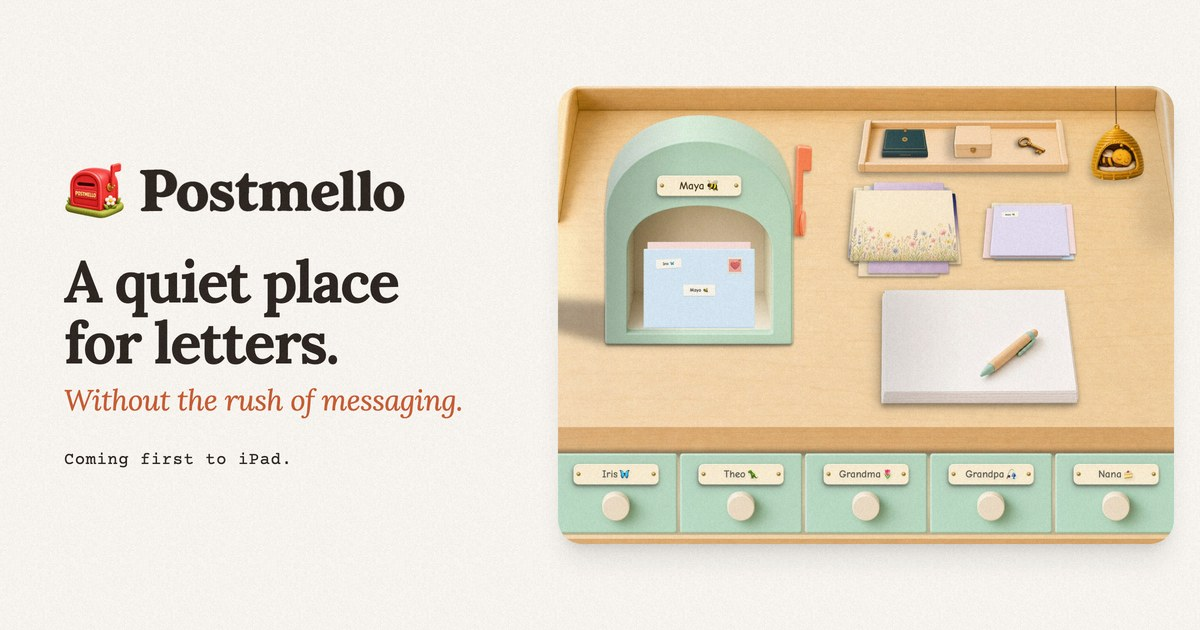
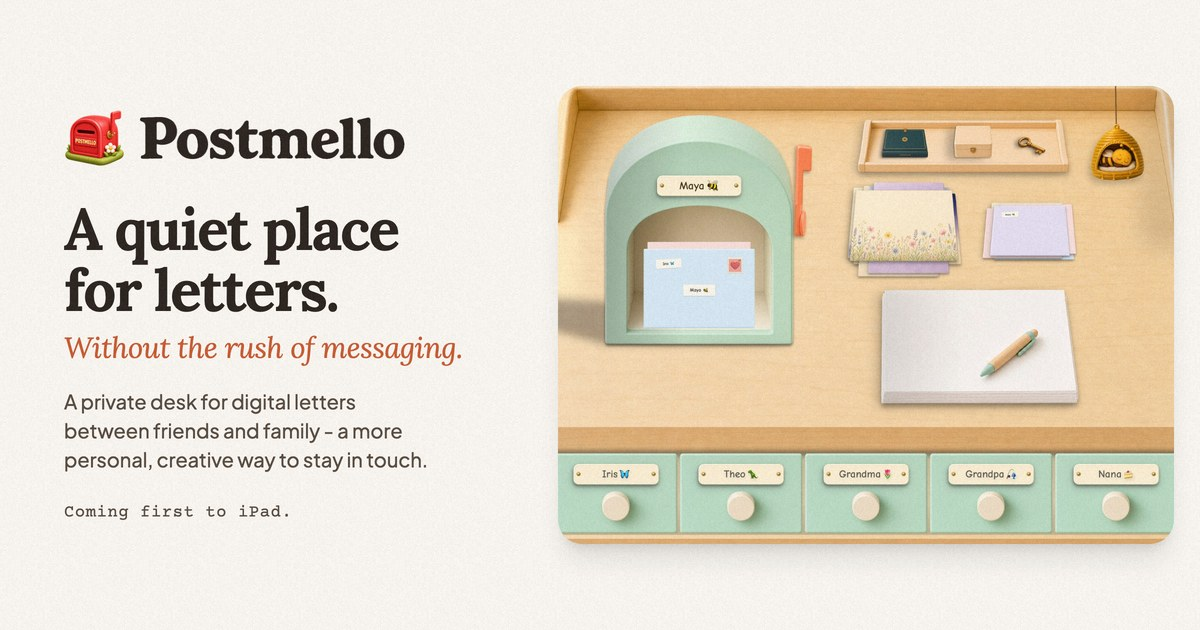
The share card carries the whole proposition, and its badge gets the ink it documents
The card was the hero minus its point: headline, aside, footnote, and nothing
that said what Postmello IS. That was survivable while the missing line was a
three-sentence paragraph no card could hold, and stopped being survivable when
the hero's why became one sentence. The og:description was carrying it alone,
which only reaches the reader whose client prints description text under the
picture - a minority of the people a shared link actually reaches.

So the card is the hero's four lines now: headline, aside, proposition,
footnote. The lead is the page's treatment resized rather than copied - 20px
against the page's 21px, which is deliberately NOT the h1's 58/72 ratio (that
would be 17px), because a card is a thumbnail in somebody's feed before it is
a 1200px image and the lines that survive shrinking are the ones set above the
noise. Same face, same 450 weight, same 1.45, same --ink-700.

It sets `balance` where the page sets `pretty`: the page's measure is chosen so
the natural break lands on the dash, and a fixed 470px column cannot reach that
seam - left alone the third line came out as "in touch." under two full ones.
Three even lines is the better shape when the seam is out of reach.

--ink-700 was USED by .badge and never defined in this file's token block, so
"Coming first to iPad." has been rendering at the body's ink-900 since the
badge was written - a note describing an ink the card was not using. Defining
[…]

diff --git a/scripts/og-card.html b/scripts/og-card.html
@@ -34,6 +34,7 @@
     /* Straight from home.css. If a token moves there, move it here. */
     :root {
       --ink-900: #2B231D;
+      --ink-700: #574B40;
       --ink-600: #746456;
       --terracotta-600: #C85A32;
       --parchment-100: #FAF7F2;
@@ -111,7 +112,35 @@
       font-style: italic; font-weight: 400;
       font-size: 29px; line-height: 1.2; letter-spacing: -0.01em;
       color: var(--terracotta-600);
-      margin-bottom: 30px;
+      margin-bottom: 22px;
+    }
+    /* THE PROPOSITION, added 2026-08-27 when the hero gained it. The card is
+       the hero's four lines or it is a different product: headline, aside,
+       this, footnote. Without it the card said how Postmello feels and never
+       what it is, and the og:description was carrying that alone - which only
+       works for the reader whose client shows description text under the
+       picture.
+
+       The page's lead treatment, resized for a card rather than copied from
+       it. 20px against the page's 21px is NOT the h1's 58/72 ratio (that would
+       be 17px): a card is a thumbnail in somebody's feed before it is a
+       1200px image, and the two lines that survive being shrunk are the ones
+       set well above the noise. Same face, same 450 weight, same 1.45, same
+       --ink-700 a step softer than the headline. Three lines in the 470px
+       column, which is the widest this can be before the desk shot gives up
+       room it needs more.
+
+       `balance` here, where the page uses `pretty`. On the page the measure is
+       chosen so the natural break lands on the dash; in a fixed 470px column
+       it cannot, and left alone the third line came out as the two words "in
+       touch." under two full ones. Three even lines is the better shape when
+       the seam is not reachable. */
+    .lead {
+      font-family: var(--font-sans);
+      font-weight: 450; font-size: 20px; line-height: 1.45;
+      color: var(--ink-700);
+      margin-bottom: 26px;
+      text-wrap: balance;
     }
     /* The PAGE'S footnote treatment, matched here after the pill came off the
        hero (Patrick, 2026-08-23): plain Courier Prime, no box. The pill's whole
@@ -152,6 +181,8 @@
     </div>
     <h1>A quiet place<br />for letters.</h1>
     <p class="aside">Without the rush of messaging.</p>
+    <p class="lead">A private desk for digital letters between friends and
+       family&nbsp;- a more personal, creative way to stay in touch.</p>
     <span class="badge">Coming first to iPad.</span>
   </div>
   <div class="shot">

diff --git a/index.html b/index.html
@@ -8,15 +8,20 @@
   <link rel="icon" type="image/png" href="assets/favicon.png" />
   <link rel="apple-touch-icon" href="assets/app-icon.png" />
   <meta property="og:title" content="Postmello - A quiet place for letters" />
-  <!-- NOT "- without the rush of messaging" any more: the share card image
-       now carries that line as its terracotta aside, so an unfurl printed it
-       twice, once in the picture and once in the text directly beneath it -
-       the same repetition that took the tagline out from under the header
-       wordmark. This is the hero paragraph's definition clause, which is what
-       the picture does not already say - and since 2026-08-27 it IS the hero
-       line, whole. That line is one sentence now, and it carries the whole
-       proposition, so an unfurl that quotes it quotes everything the page
-       would have wanted a stranger to read. -->
+  <!-- The hero's lead sentence, whole. The old rule here was "say what the
+       picture does not already say": the card gained the terracotta aside on
+       2026-08-23 and this line stopped repeating it, the same repetition that
+       took the tagline out from under the header wordmark.
+
+       That rule now has nothing left to pick. The card carries the whole
+       proposition too since 2026-08-27, so this DELIBERATELY says the same
+       sentence rather than reaching for a worse one. It is the fallback, not
+       the second voice: a client that shows no image, an image that fails to
+       load, and every text-only preview get the sentence from here. If the
+       doubling ever looks like drift rather than a fallback, the fix is to
+       shorten THIS to the definition clause and leave the card whole - never
+       to take the sentence off the picture, which is the half more people
+       actually read. -->
   <meta property="og:description" content="A private desk for digital letters between friends and family - a more personal, creative way to stay in touch." />
   <meta property="og:image" content="https://postmello.com/assets/og-card.jpg" />
   <meta property="og:type" content="website" />
